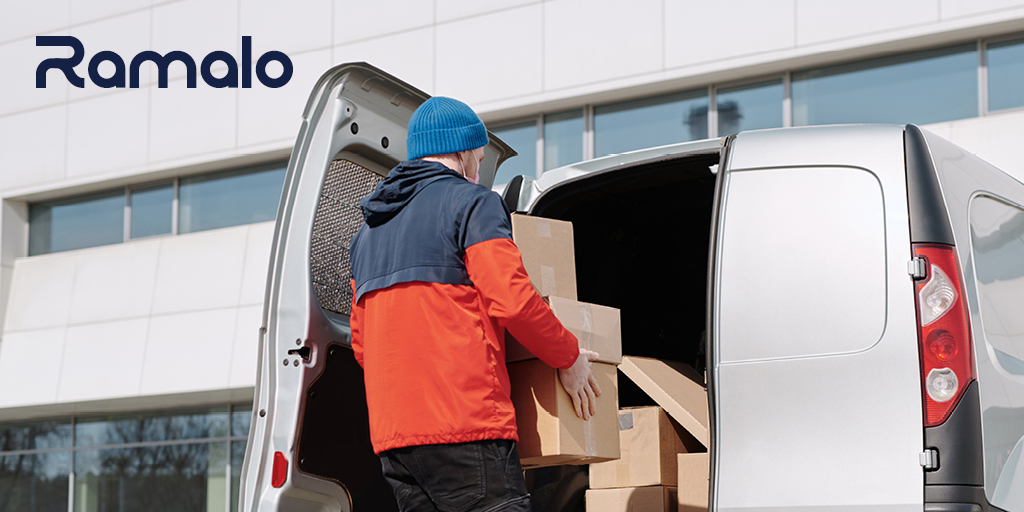
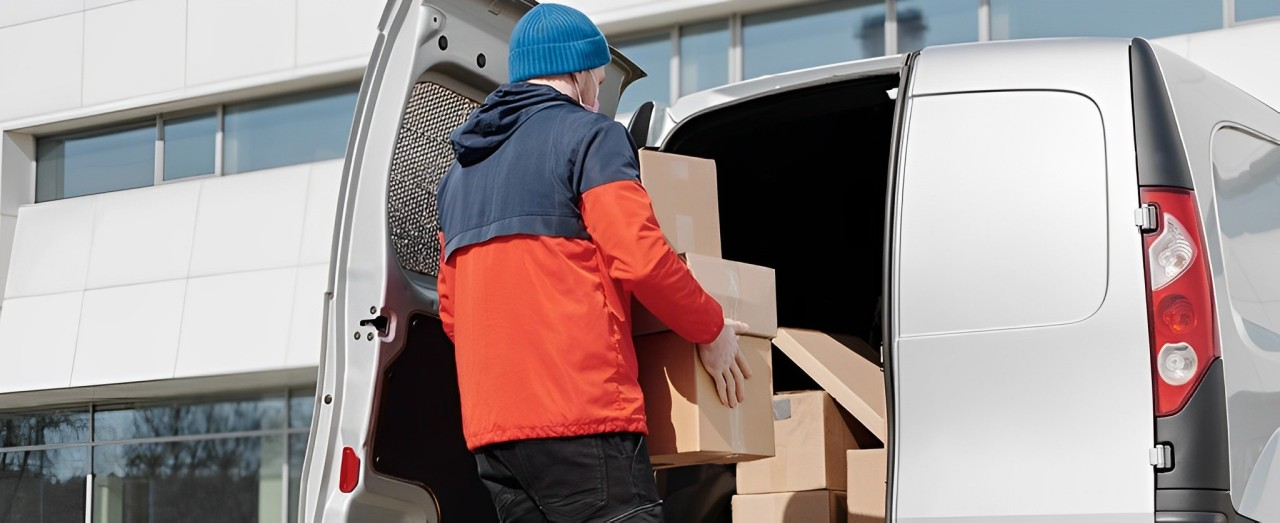
done

diff --git a/index.html b/index.html
@@ -91,47 +91,47 @@
                 
             </div>
         </div>
-        <div class="we-offer">
-            <h3>We offer </h3>
-            <div class="offer-grid">
-                <div class="offer-item">
-                    <div class="offer-icon"><i class="far fa-handshake"></i></div>
-                    <div class="offer-content">
+        <div class="we-offer1">
+            <h3 style="text-align: center; margin-right: 25%;">We offer</h3>
+            <div class="offer-grid1">
+                <div class="offer-item1">
+                    <div class="offer-icon1"><i class="far fa-handshake"></i></div>
+                    <div class="offer-content1">
                         <h4>Handling of logistics</h4>
-                        <p>The full handling of your corporation's <br> logistics on your behalf</p>
+                        <p>The full handling of your corporation's logistics on your behalf</p>
                     </div>
                 </div>
-                <div class="offer-item">
-                    <div class="offer-icon"><i class="fas fa-truck"></i></div>
-                    <div class="offer-content">
+                <div class="offer-item1">
+                    <div class="offer-icon1"><i class="fas fa-truck"></i></div>
+                    <div class="offer-content1">
                         <h4>Last mile distribution</h4>
-                        <p>Last-mile distribution helping your business offer <br> customer-centric efficiency</p>
+                        <p>Last-mile distribution helping your business offer customer-centric efficiency</p>
                     </div>
                 </div>
-                <div class="offer-item">
-                    <div class="offer-icon"><i class="fas fa-network-wired"></i></div>
-                    <div class="offer-content">
+                <div class="offer-item1">
+                    <div class="offer-icon1"><i class="fas fa-network-wired"></i></div>
+                    <div class="offer-content1">
                         <h4>Providing infrastructure</h4>
-                        <p>Minimising the gap to your customer by providing <br> infrastructure for product delivery</p>
+                        <p>Minimising the gap to your customer by providing infrastructure for product delivery</p>
                     </div>
                 </div>
-                <div class="offer-item">
-                    <div class="offer-icon"><i class="fas fa-chart-line"></i></div>
-                    <div class="offer-content">
+                <div class="offer-item1">
+                    <div class="offer-icon1"><i class="fas fa-chart-line"></i></div>
+                    <div class="offer-content1">
                         <h4>Market access</h4>
-                        <p>Increased market access and connecting businesses <br> variety of consumers</p>
+                        <p>Increased market access and connecting businesses variety of consumers</p>
                     </div>
                 </div>
-                <div class="offer-item">
-                    <div class="offer-icon"><i class="fas fa-bolt"></i></div>
-                    <div class="offer-content">
+                <div class="offer-item1">
+                    <div class="offer-icon1"><i class="fas fa-bolt"></i></div>
+                    <div class="offer-content1">
                         <h4>Fast and reliable</h4>
-                        <p>Fast and reliable no-frill service. We are dedicated to <br> putting your needs first</p>
+                        <p>Fast and reliable no-frill service. We are dedicated to putting your needs first</p>
                     </div>
                 </div>
-                <div class="offer-item">
-                    <div class="offer-icon"><i class="fas fa-leaf"></i></div>
-                    <div class="offer-content">
+                <div class="offer-item1">
+                    <div class="offer-icon1"><i class="fas fa-leaf"></i></div>
+                    <div class="offer-content1">
                         <h4>Sustainability</h4>
                         <p>Recruit or train youth through sustainable means of employment</p>
                     </div>

diff --git a/assets/styles/styles.css b/assets/styles/styles.css
@@ -10,7 +10,7 @@ body, html {
 }
 
 .hero {
-    background-image: url('../RAMALO _AUGUST_SM/Ramalo\ Social\ Media_AUGUST32_IN.jpg');
+    background-image: url('../RAMALO _AUGUST_SM/Ramalo\ Social\ Media_AUGUST12_Twitter.jpg');
     background-size: cover;
     background-position: center;
     height: 100vh;
@@ -775,6 +775,61 @@ body, html {
 
 .sign-up-button:hover {
     background-color: #0d2d5a;
+}
+
+
+.we-offer1 {
+    margin-top: 4rem;
+}
+
+.we-offer1 h3 {
+    color: var(--primary-color);
+    font-size: 2rem;
+    margin-bottom: 2rem;
+    text-align: left;
+    padding-left: 33%;
+}
+
+.offer-grid1 {
+    display: grid;
+    grid-template-columns: repeat(2, 1fr);
+    gap: 2rem;
+    padding-left: 20%;
+    padding-right: 5%;
+}
+
+.offer-item1 {
+    display: flex;
+    align-items: flex-start;
+}
+
+.offer-icon1 {
+    margin-right: 1rem;
+    font-size: 1.5rem;
+    color: var(--primary-color);
+    margin-top: 1.4rem;
+}
+
+.offer-icon1 i {
+    border: 2px solid var(--primary-color);
+    border-radius: 50%;
+    width: 40px;
+    height: 40px;
+    display: flex;
+    justify-content: center;
+    align-items: center;
+}
+
+.offer-content1 h4 {
+    color: var(--primary-color);
+    font-size: 1.2rem;
+    margin-bottom: 0.5rem;
+}
+
+.offer-content1 p {
+    font-size: 1rem;
+    line-height: 1.4;
+    color: gray;
 }
 
 /* footer */
